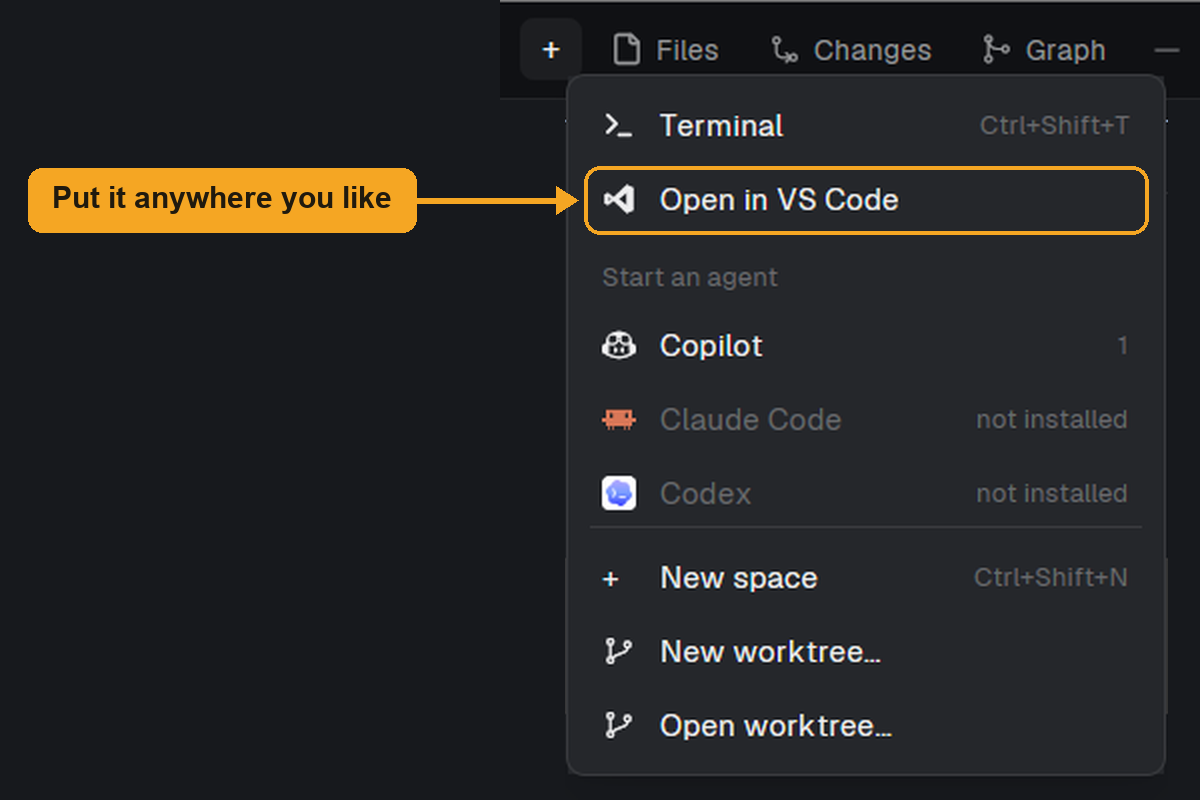
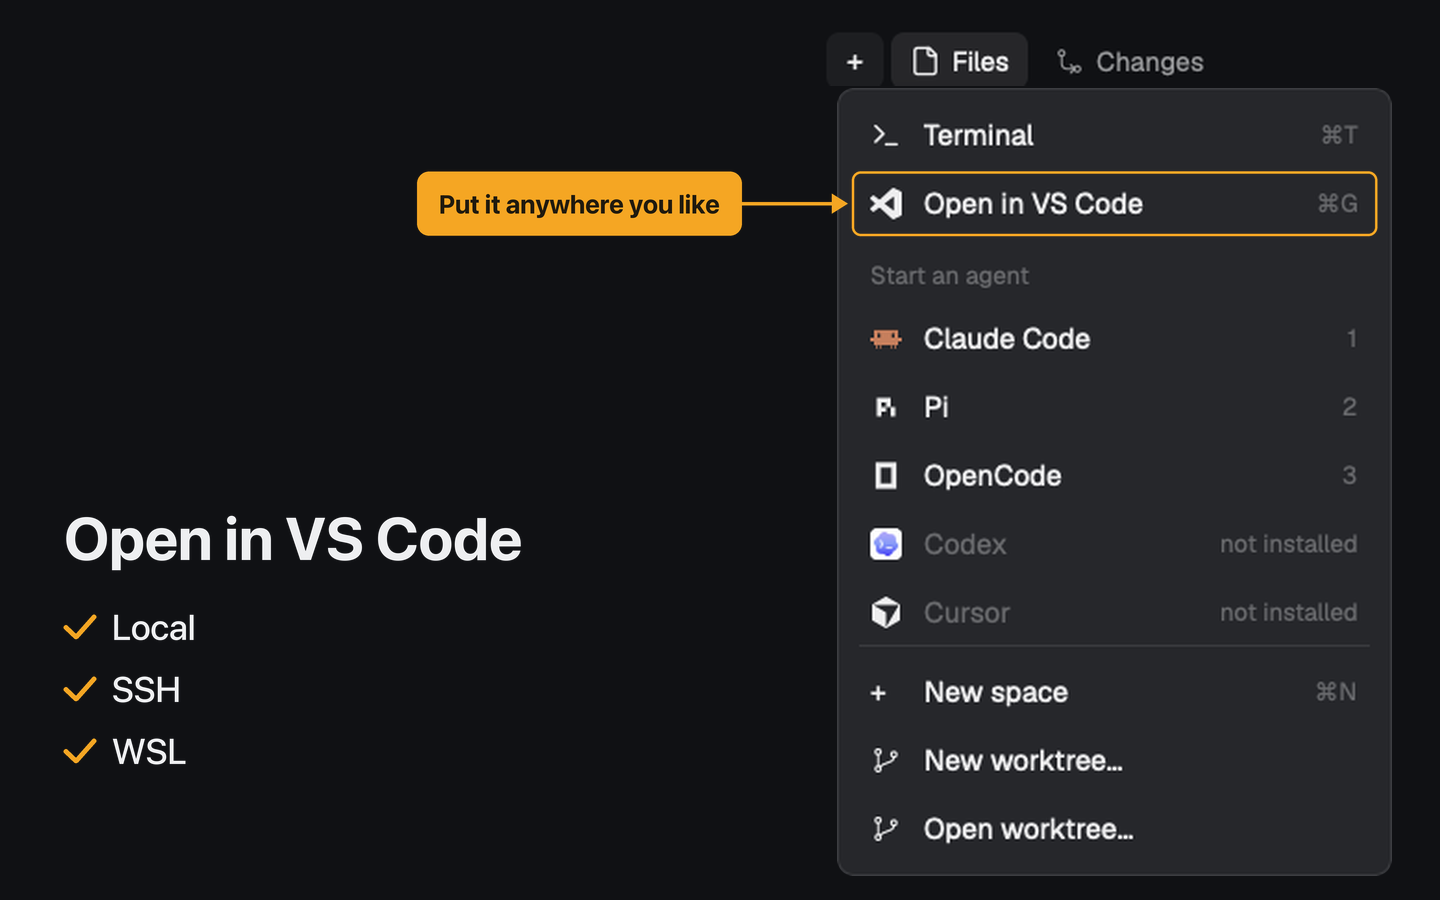
Bind G per system and update the preview
Split the default key into keys.json (ctrl-shift-g) and keys.macos.json
(cmd-g), replacing ctrl-shift-e, which took Herdr's pane.split:down.
Document merging one file only, updating an install, the shortcut()
caveat and checking the menu by eye. List WSL as supported.

Claude-Session: https://claude.ai/code/session_01CT6RTen6hMxdmSDQ3S3nTG

diff --git a/README.md b/README.md
@@ -6,12 +6,13 @@ Works with:
 
 - Folders on this computer
 - Folders on any machine connected to Herdr over SSH, through the [Remote - SSH](https://marketplace.visualstudio.com/items?itemName=ms-vscode-remote.remote-ssh) extension
+- Folders in WSL, when it's connected to Herdr over SSH like any other machine
 
 ![Open in VS Code](preview.png)
 
 The mod adds no button of its own. This is one place to put it: a row in the + menu, set up as [below](#add-it-to-the--menu).
 
-**Tested so far:** local folders on macOS and Windows, and from Windows to a Mac and to WSL over Remote - SSH, with capitalized Hosts. The URIs have unit tests.
+**Tested so far:** local folders on macOS and Windows, and from Windows to a Mac and to WSL over Remote - SSH, with capitalized Hosts. The default keys are tested too: `cmd-g` on macOS and `ctrl-shift-g` on Windows. The URIs have unit tests.
 
 ## Install
 
@@ -19,7 +20,26 @@ Needs VS Code, plus Remote - SSH for other machines.
 
 Ask your agent to add `https://github.com/CacaoRick/herdr-open-vscode`, or copy `mods/open-vscode/` to `mods/` in your Herdr folder (`~/.config/herdr-app`).
 
-This adds no panel or button. Choose how to start it below.
+This adds no panel or button. Choose how to start it [below](#use).
+
+### Default key
+
+The default key sits next to Terminal's, with the same modifiers. Merge one file into your own `keys.json`, whether you install by hand or through an agent:
+
+| System | Merge only | Key |
+|---|---|---|
+| macOS | `keys.macos.json` | `cmd-g` |
+| Windows, Linux | `keys.json` | `ctrl-shift-g` |
+
+Never merge both. If the key is already in use, ask before replacing it. Herdr's own agent instructions only mention a mod's `keys.json`, so agents should follow this table instead.
+
+### Update
+
+- `git pull` doesn't change the installed mod. Copy `mods/open-vscode/` to `mods/` again, keeping any `hosts.json` you made.
+- Earlier versions bound `ctrl-shift-e` and `cmd-shift-e`. Remove those bindings and merge the file for your system. `ctrl-shift-e` is Herdr's `pane.split:down` on Windows and Linux, so set it back to that if the merge replaced it.
+- If your + menu clone already has the row, don't add a second one. Only update its fifth argument (the hint) and sixth (`Boolean(space)`).
+- If your menu's height already reads `522` and `198`, don't add 31 again.
+- If your + button already points at your clone, skip step 4 of the menu setup.
 
 ## Use
 
@@ -28,7 +48,7 @@ The mod runs when something calls `mod.open` with its name, so you can put it wh
 | Start it from | Set it up | Example |
 |---|---|---|
 | The + menu | Clone Herdr's menu, then add a row. See [below](#add-it-to-the--menu) | `run("mod.open", { name: "open-vscode" })` |
-| A key | Add a binding under `global` in `keys.json`, or merge this repo's `keys.json` | `"ctrl-shift-e": "mod.open:open-vscode"` |
+| A key | Merge the file for your system, see [Default key](#default-key), or add your own binding under `global` | `"ctrl-shift-g": "mod.open:open-vscode"` |
 | A button or menu item | Call it from the click handler in your own mod | `.on_click(() => run("mod.open", { name: "open-vscode" }))` |
 | A shell or script | Nothing to set up | `herdr-app do mod.open --name open-vscode` |
 
@@ -45,10 +65,19 @@ herdr-app do mod.clone '{"name":"new-menu","as":"my-new-menu"}'
 **2. Add the row.** In `mods/my-new-menu/main.js`, add this line after the `terminal` row, or between any other two rows, wherever you want it in the menu:
 
 ```js
-      .child(this.row("vscode", svg("mods/open-vscode/vscode.svg").size(14), "Open in VS Code", () => run("mod.open", { name: "open-vscode" }), shortcut("mod.open:open-vscode")))
+      .child(this.row("vscode", svg("mods/open-vscode/vscode.svg").size(14), "Open in VS Code", () => run("mod.open", { name: "open-vscode" }), shortcut("mod.open:open-vscode"), Boolean(space)))
 ```
 
-If you bind a key to `mod.open:open-vscode`, the row shows it, like Terminal's. With no key, that side stays empty.
+If you bind a key to `mod.open:open-vscode`, the row shows it, like Terminal's. With no key, that side stays empty. `Boolean(space)` greys out the row when there's no space.
+
+Herdr's `shortcut()` shows only one key, and not in the order of your file. If one action has keys for several systems, a row can show the wrong one: with `ctrl-shift-g` and `cmd-shift-e` both bound, Windows showed `Shift+Super+E`. Remove the other system's key, or replace the first three lines of `shortcut()` with:
+
+```js
+const mac = window()?.platform === "macos";
+const bound = keys().filter(b => b.section === "global" && b.action === name);
+const k = bound.find(b => mac === /\b(cmd|super|win)-/i.test(b.keys)) ?? bound[0];
+if (!k?.keys.trim()) return "";
+```
 
 **3. Make room for it.** In the same `render`, add one row's height (31) to both numbers in the menu's height: `491` becomes `522`, and `167` becomes `198`.
 
@@ -70,6 +99,17 @@ openOverlay({ mod: "my-new-menu", kind: "popup", width: 250, height: 543 })
 ```
 
 **5. Check it.** Run `herdr-app check` on each mod you changed, for example `herdr-app check ~/.config/herdr-app/mods/my-new-menu`.
+
+A passing check doesn't prove the menu shows the right key, so look at it too:
+
+```sh
+herdr-app do mod.open --name my-new-menu
+herdr-app shot menu.png
+herdr-app do overlay.close
+herdr-app status
+```
+
+In `menu.png`, check the key on the row. In the status, `errors` should be empty. This opens the menu in the middle of the window, not under the + button, so use it only to check the contents. `overlay.close` closes only the top overlay: if you also have a menu open, `status` still lists it, and that isn't a failure.
 
 ## If the host doesn't match
 

diff --git a/RECIPE.md b/RECIPE.md
@@ -6,6 +6,7 @@ Works with:
 
 - Folders on this computer
 - Folders on any machine connected to Herdr over SSH, through the Remote - SSH extension
+- Folders in WSL, when it's connected to Herdr over SSH like any other machine
 
 ![Open in VS Code](preview.png)
 
@@ -29,7 +30,7 @@ It closes by itself as soon as VS Code has been started, usually too fast to rea
 - The machine is that space's `machine`. Null means this computer.
 - The host for ssh is the entry in `mods/open-vscode/hosts.json` for that machine name (`{"mac": "mac-studio"}`, optional), else the machine's `target` in `hc machine ls --json`. A machine reached with `--via`, or one with no usable target, gets an error naming `hosts.json`.
 - Esc closes the dialog, as with any dialog.
-- `keys.json` binds `ctrl-shift-e` and `cmd-shift-e`. Merge them, or bind anything else, or call `run("mod.open", { name: "open-vscode" })` from a button in your own layout.
+- `keys.json` binds `ctrl-shift-g` for Windows and Linux; `keys.macos.json` binds `cmd-g` for macOS. Merge only the one for this system, never both, and ask before replacing a key already in use. Or bind anything else, or call `run("mod.open", { name: "open-vscode" })` from a button in your own layout.
 
 ## Built from
 
@@ -42,6 +43,7 @@ It closes by itself as soon as VS Code has been started, usually too fast to rea
   - `resolveHost`: as above.
 - `mods/open-vscode/main.js`: a `View` that does everything from `init`, inside `cx.spawn`, then calls `closeOverlay(props().overlay)`.
 - Herdr: `focused`, `spaces`, `theme`, `window`, `exec`, `hc`, `readTextFile`, `appHome`, `closeOverlay`, `props`.
+- `keys.json` and `keys.macos.json`: one `global` binding each, to `mod.open:open-vscode`.
 - `mods/open-vscode/vscode.svg`: a one-color icon, not used by the mod itself, for whoever adds it to a menu or button.
 - Programs, run on this computer, never on the remote machine:
   - Windows: `powershell -NoProfile -Command`, running `code --folder-uri <uri>` if `Get-Command code` finds it, else `Start-Process <protocol url>`.
@@ -50,6 +52,9 @@ It closes by itself as soon as VS Code has been started, usually too fast to rea
 
 ## Watch out
 
+- Herdr's add-a-mod steps only mention `keys.json` and don't know `keys.macos.json`, so follow the rule above: on macOS merge `keys.macos.json` instead. The file names follow Herdr's `defaults/`.
+- G sits next to Terminal's T, with the same modifiers, so the two rows line up in a menu. Avoid `ctrl-shift-e` (Herdr's `pane.split:down`), `ctrl-e` (shells, nano and vim use it), and `ctrl-shift-c` and `ctrl-shift-v` (terminal copy and paste).
+- Herdr's `shortcut()` in the + menu shows one key per action, and not in file order. Keys for two systems on one action can show the wrong one; the README has the fix.
 - The palette can't list it. Palette entries come from Herdr's own list, the layouts and `commands()`; `mod.json` can't add one and `mod.open` is hidden there. A key or a button is the way in.
 - `programs.json` can't do this: a `run` entry starts on the space's machine, so VS Code would start over there.
 - VS Code lowercases URI authorities, so a Host with capitals, like `MacStudio`, must be hex-encoded or it won't match ssh config.
@@ -57,7 +62,7 @@ It closes by itself as soon as VS Code has been started, usually too fast to rea
 - Encode more than `encodeURIComponent` does: `!'()*` too. On Windows the URI passes through PowerShell and `code.cmd`.
 - The host must mean the same thing to this computer's ssh as to Herdr. Herdr's `target` normally does, because it came from the same ssh config.
 - `hosts.json` lives in the mod's folder and holds machine names, so don't publish yours.
-- Assumes VS Code here, with Remote - SSH for other machines. VS Code's own forks aren't handled. Only ssh remotes are.
+- Assumes VS Code here, with Remote - SSH for other machines. VS Code's own forks aren't handled. Only ssh remotes are, so WSL goes through Remote - SSH too, not VS Code's WSL extension.
 - Reads `~/.config/herdr-app/mods/open-vscode/hosts.json`. Runs `code`, `powershell`, `open` or `xdg-open`, and `hc`. No network of its own; Remote - SSH makes the connection.
 
 ## Done when
@@ -67,3 +72,5 @@ It closes by itself as soon as VS Code has been started, usually too fast to rea
 - In a terminal on another machine, the same command opens a Remote - SSH window on that terminal's folder, also with spaces and non-ASCII characters in the path.
 - After `cd` in the terminal, it opens the new folder, not the space's first one.
 - A machine with no usable host shows the error naming `hosts.json`, and Esc closes it.
+- The key for this system opens the folder and takes nothing else away.
+- If a menu row was added, `herdr-app check` passes on that clone, and with `herdr-app do mod.open --name my-new-menu`, `herdr-app shot menu.png`, `herdr-app do overlay.close` and `herdr-app status`, the shot shows the right key on the row and `errors` is empty. The check alone can't see a wrong key. The menu opens mid-window this way, and a menu you opened yourself may stay listed under overlays.
